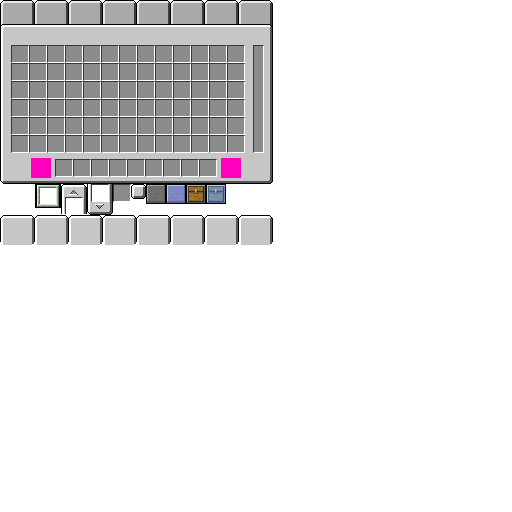
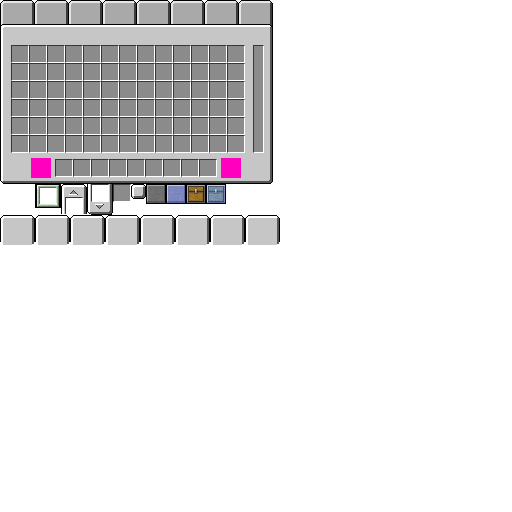
Adjusted tab textures

diff --git a/src/main/java/useless/legacyui/Gui/GuiScreens/GuiLegacyCreative.java b/src/main/java/useless/legacyui/Gui/GuiScreens/GuiLegacyCreative.java
@@ -247,7 +247,7 @@ public class GuiLegacyCreative extends GuiInventory implements IGuiController {
     protected void drawGuiContainerBackgroundLayer(float renderPartialTick) {
         UtilGui.bindTexture("/assets/legacyui/gui/legacycreative.png");
         UtilGui.drawTexturedModalRect(this, GUIx,GUIy, 0, 0, xSize, ySize,1f/guiTextureWidth); // GUI Background
-        UtilGui.drawTexturedModalRect(this, GUIx + (tabWidth - 1) * (currentTab % 8), GUIy - 2, (tabWidth-1) * (currentTab % 8),215, tabWidth, 30, 1f/guiTextureWidth); // Render Selected Tab
+        UtilGui.drawTexturedModalRect(this, GUIx + (tabWidth - 1) * (currentTab % 8), GUIy - 2, (tabWidth) * (currentTab % 8),215, tabWidth, 30, 1f/guiTextureWidth); // Render Selected Tab
 
         float scrollProgressLimited = ((float) currentRow) /(LegacyContainerPlayerCreative.getTotalRows()-LegacyContainerPlayerCreative.slotsTall);
         UtilGui.drawTexturedModalRect(this,scrollBar.xPosition, (scrollBar.yPosition + (int) ((scrollBar.height-15)*scrollProgressLimited)),131,184,15,15,1f/guiTextureWidth);

diff --git a/src/main/java/useless/legacyui/Gui/GuiScreens/GuiLegacyCrafting.java b/src/main/java/useless/legacyui/Gui/GuiScreens/GuiLegacyCrafting.java
@@ -337,7 +337,7 @@ public class GuiLegacyCrafting extends GuiContainer implements IGuiController {
         UtilGui.drawTexturedModalRect(this, GUIx, GUIy, 0,0, this.xSize, this.ySize, 1f/guiTextureWidth); // Render Background
 
 
-        UtilGui.drawTexturedModalRect(this, GUIx + (tabWidth - 1) * (currentTab % 8), GUIy - 2, (tabWidth-1) * (currentTab % 8),229, tabWidth, 30, 1f/guiTextureWidth); // Render Selected Tab
+        UtilGui.drawTexturedModalRect(this, GUIx + (tabWidth-1) * (currentTab % 8), GUIy - 2, (tabWidth) * (currentTab % 8),229, tabWidth, 30, 1f/guiTextureWidth); // Render Selected Tab
 
         IRecipe currentRecipe = (IRecipe) currentCategory().getRecipeGroups(isSmall())[currentSlot].getRecipes(isSmall())[currentScroll];
         if ((currentCategory().getRecipeGroups(isSmall())[currentSlot].getContainer(currentScroll, isSmall()).inventorySlots.size() <= 5 && showCraftDisplay) || isSmall()){ // 2x2 Crafting overlay
